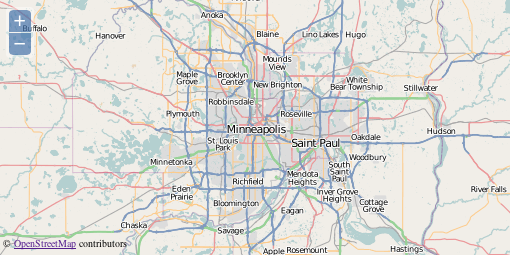
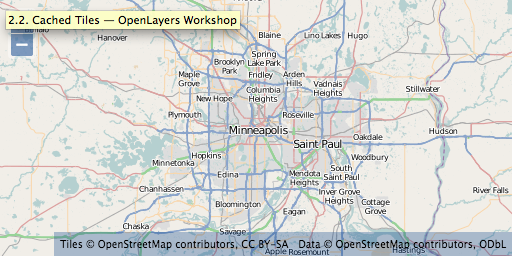
add section on cached layers

diff --git a/ol3/osm.html b/ol3/osm.html
@@ -1,0 +1,36 @@
+<!doctype html>
+<html lang="en">
+  <head>
+    <link rel="stylesheet" href="http://ol3js.org/en/master/build/ol.css" type="text/css">
+    <style>
+      .map {
+        height: 256px;
+        width: 512px;
+      }
+      .ol-attribution ul, .ol-attribution a {
+        color: black;
+      }
+    </style>
+    <script src="http://ol3js.org/en/master/build/ol.js" type="text/javascript"></script>
+    <title>OpenLayers 3 example</title>
+  </head>
+  <body>
+    <h1>My Map</h1>
+    <div id="map" class="map"></div>
+    <script type="text/javascript">
+      var map = new ol.Map({
+        target: 'map',
+        renderer: ol.RendererHint.CANVAS,
+        layers: [
+          new ol.layer.Tile({
+            source: new ol.source.OSM()
+          })
+        ],
+        view: new ol.View2D({
+          center: ol.proj.transform([-93.27, 44.98], 'EPSG:4326', 'EPSG:3857'),
+          zoom: 9
+        })
+      });
+    </script>
+  </body>
+</html>

diff --git a/src/doc/layers/cached.rst b/src/doc/layers/cached.rst
@@ -3,27 +3,27 @@
 Cached Tiles
 ============
 
-By default, the WMS layer makes requests for 256 x 256 (pixel) images to fill your map viewport and beyond. As you pan and zoom around your map, more requests for images go out to fill the areas you haven't yet visited. While your browser will cache some requested images, a lot of processing work is typically required for the server to dynamically render images.
+By default, the Tile layer makes requests for 256 x 256 (pixel) images to fill your map viewport and beyond. As you pan and zoom around your map, more requests for images go out to fill the areas you haven't yet visited. While your browser will cache some requested images, a lot of processing work is typically required for the server to dynamically render images.
 
-Since tiled layers (such as the WMS layer) make requests for images on a regular grid, it is possible for the server to cache these image requests and return the cached result next time you (or someone else) visits the same area - resulting in better performance all around.
+Since tiled layers make requests for images on a regular grid, it is possible for the server to cache these image requests and return the cached result next time you (or someone else) visits the same area - resulting in better performance all around.
 
 
 .. _openlayers.layers.cached.xyz:
 
-OpenLayers.Layer.XYZ
+ol.source.XYZ
 --------------------
 
 The Web Map Service specification allows a lot of flexibility in terms of what a client can request. Without constraints, this makes caching difficult or impossible in practice.
 
-At the opposite extreme, a service might offer tiles only at a fixed set of zoom levels and only for a regular grid. These can be generalized as XYZ layers - you can consider X and Y to indicate the column and row of the grid and Z to represent the zoom level.
+At the opposite extreme, a service might offer tiles only at a fixed set of zoom levels and only for a regular grid. These can be generalized as tiled layers with an XYZ source - you can consider X and Y to indicate the column and row of the grid and Z to represent the zoom level.
 
 
 .. _openlayers.layers.cached.osm:
 
-OpenLayers.Layer.OSM
+ol.source.OSM
 --------------------
 
-The `OpenStreetMap (OSM) <http://www.openstreetmap.org/>`_ project is an effort to collect and make freely available map data for the world. OSM provides a few different renderings of their data as cached tile sets. These renderings conform to the basic :ref:`XYZ grid <openlayers.layers.cached.xyz>` arrangement and can be used in an OpenLayers map. The ``OpenLayers.Layer.OSM`` constructor accesses OpenStreetMap tiles.
+The `OpenStreetMap (OSM) <http://www.openstreetmap.org/>`_ project is an effort to collect and make freely available map data for the world. OSM provides a few different renderings of their data as cached tile sets. These renderings conform to the basic :ref:`XYZ grid <openlayers.layers.cached.xyz>` arrangement and can be used in an OpenLayers map. The ``ol.source.OSM`` layer source accesses OpenStreetMap tiles.
 
 .. _openlayers.layers.cached.example:
 
@@ -34,16 +34,19 @@ The `OpenStreetMap (OSM) <http://www.openstreetmap.org/>`_ project is an effort 
     .. code-block:: html
 
         <script>
-            var center = new OpenLayers.LonLat(-93.27, 44.98).transform(
-                'EPSG:4326', 'EPSG:3857'
-            );
-
-            var map = new OpenLayers.Map("map-id", {projection: 'EPSG:3857'});
-
-            var osm = new OpenLayers.Layer.OSM();
-            map.addLayer(osm);
-
-            map.setCenter(center, 9);
+          var map = new ol.Map({
+            target: 'map',
+            renderer: ol.RendererHint.CANVAS,
+            layers: [
+              new ol.layer.Tile({
+                source: new ol.source.OSM()
+              })
+            ],
+            view: new ol.View2D({
+              center: ol.proj.transform([-93.27, 44.98], 'EPSG:4326', 'EPSG:3857'),
+              zoom: 9
+            })
+          });
         </script>
 
 #.  In the ``<head>`` of the same document, add a few style declarations for the layer attribution.
@@ -51,14 +54,12 @@ The `OpenStreetMap (OSM) <http://www.openstreetmap.org/>`_ project is an effort 
     .. code-block:: html
     
         <style>
-            #map-id {
+            .map {
                 width: 512px;
                 height: 256px;
             }
-            .olControlAttribution {
-                font-size: 10px;
-                bottom: 5px;
-                left: 5px;
+            .ol-attribution ul, .ol-attribution a {
+                color: black;
             }
         </style>
 
@@ -66,7 +67,7 @@ The `OpenStreetMap (OSM) <http://www.openstreetmap.org/>`_ project is an effort 
 
 .. figure:: cached1.png
    
-    A map with an OpenStreetMap layer.
+    A map with a tiled layer with an OpenStreetMap source.
 
 
 A Closer Look
@@ -74,68 +75,72 @@ A Closer Look
 
 Projections
 ```````````
-Review the first 3 lines of the initialization script:
+Review the view definition of the map:
 
 .. code-block:: javascript
 
-    var center = new OpenLayers.LonLat(-93.27, 44.98).transform(
-        'EPSG:4326', 'EPSG:3857'
-    );
+    view: new ol.View2D({
+      center: ol.proj.transform([-93.27, 44.98], 'EPSG:4326', 'EPSG:3857'),
+      zoom: 9
+    })
 
 Geospatial data can come in any number of coordinate reference systems. One data set might use geographic coordinates (longitude and latitude) in degrees, and another might have coordinates in a local projection with units in meters. A full discussion of coordinate reference systems is beyond the scope of this module, but it is important to understand the basic concept.
 
-OpenLayers needs to know the coordinate system for your data. Internally, this
-is represented with an ``OpenLayers.Projection`` object. The ``transform`` function also takes strings that represent the coordinate reference system (``"EPSG:4326"`` and ``"EPSG:3857"`` above).
+ol3 needs to know the coordinate system for your data. Internally, this
+is represented with an ``ol.proj.Projection`` object. The ``transform`` function in the ``ol.proj`` namespace also takes strings that represent the coordinate reference system (``"EPSG:4326"`` and ``"EPSG:3857"`` above).
 
 Locations Transformed
 `````````````````````
 
-The OpenStreetMap tiles that we will be using are in a Mercator projection. Because of this, we need to set the initial center using Mercator coordinates. Since it is relatively easy to find out the coordinates for a place of interest in geographic coordinates, we use the ``transform`` method to turn geographic coordinates (``"EPSG:4326"``) into Mercator coordinates (``"EPSG:3857"``).
+The OpenStreetMap tiles that we will be using are in a Mercator projection. Because of this, we need to set the initial center using Mercator coordinates. Since it is relatively easy to find out the coordinates for a place of interest in geographic coordinates, we use the ``ol.proj.transform`` method to turn geographic coordinates (``"EPSG:4326"``) into Mercator coordinates (``"EPSG:3857"``).
 
 Custom Map Options
 ``````````````````
 
-.. code-block:: javascript
-
-    var map = new OpenLayers.Map("map-id", {projection: 'EPSG:3857'});
-
-In the :ref:`previous example <openlayers.layers.wms.example>` we used the default options for our map. In this example, we set a custom map projection.
-
 .. note::
 
-    The projections we used here are the only projections that OpenLayers knows
-    about. For other projections, the map options need to contain two more
-    properties: ``maxExtent`` and ``units``. This information can be looked up
-    at http://spatialreference.org/, using the EPSG code.
+    The projections we used here are the only projections that ol3 knows
+    about. For other projections, we need to configure the projection:
+
+.. code-block:: javascript
+
+    var projection = ol.proj.configureProj4jsProjection({
+      code: 'EPSG:21781',
+      extent: [485869.5728, 76443.1884, 837076.5648, 299941.7864]
+    });
+
+And we need to include two additional script tags:
+
+.. code-block:: html
+
+    <script src="http://cdnjs.cloudflare.com/ajax/libs/proj4js/1.1.0/proj4js-compressed.js" type="text/javascript"></script>
+    <script src="http://cdnjs.cloudflare.com/ajax/libs/proj4js/1.1.0/defs/EPSG21781.js" type="text/javascript"></script>
+
+    This information can be looked up at http://spatialreference.org/, using the EPSG code.
 
 Layer Creation and Map Location
 ```````````````````````````````
 
 .. code-block:: javascript
 
-    var osm = new OpenLayers.Layer.OSM();
-    map.addLayer(osm);
+    layers: [
+      new ol.layer.Tile({
+        source: new ol.source.OSM()
+      })
+    ],
 
-As before, we create a layer and add it to our map. This time, we accept all the default options for the layer.
-
-.. code-block:: javascript
-
-    map.setCenter(center, 9);
-    
-Finally, we give our map a center (in Mercator coordinates) and set the zoom level to ``9``.
+As before, we create a layer and add it to the layers array of our map config object. This time, we accept all the default options for the source.
 
 Style
 `````
 
 .. code-block:: html
 
-    .olControlAttribution {
-        font-size: 10px;
-        bottom: 5px;
-        left: 5px;
+    .ol-attribution ul, .ol-attribution a {
+      color: black;
     }
 
-A treatment of map controls is also outside the scope of this module, but these style declarations give you a sneak preview. By default, an ``OpenLayers.Control.Attribution`` control is added to all maps. This lets layers display attribution information in the map viewport. The declarations above alter the style of this attribution for our map (notice the small Copyright line at the bottom left of the map).
+A treatment of map controls is also outside the scope of this module, but these style declarations give you a sneak preview. By default, an ``ol.control.Attribution`` control is added to all maps. This lets layer sources display attribution information in the map viewport. The declarations above alter the style of this attribution for our map (notice the small Copyright line at the bottom left of the map).
 
 Having mastered layers with publicly available cached tile sets, let's move on to working with :ref:`proprietary layers <openlayers.layers.proprietary>`.
 
